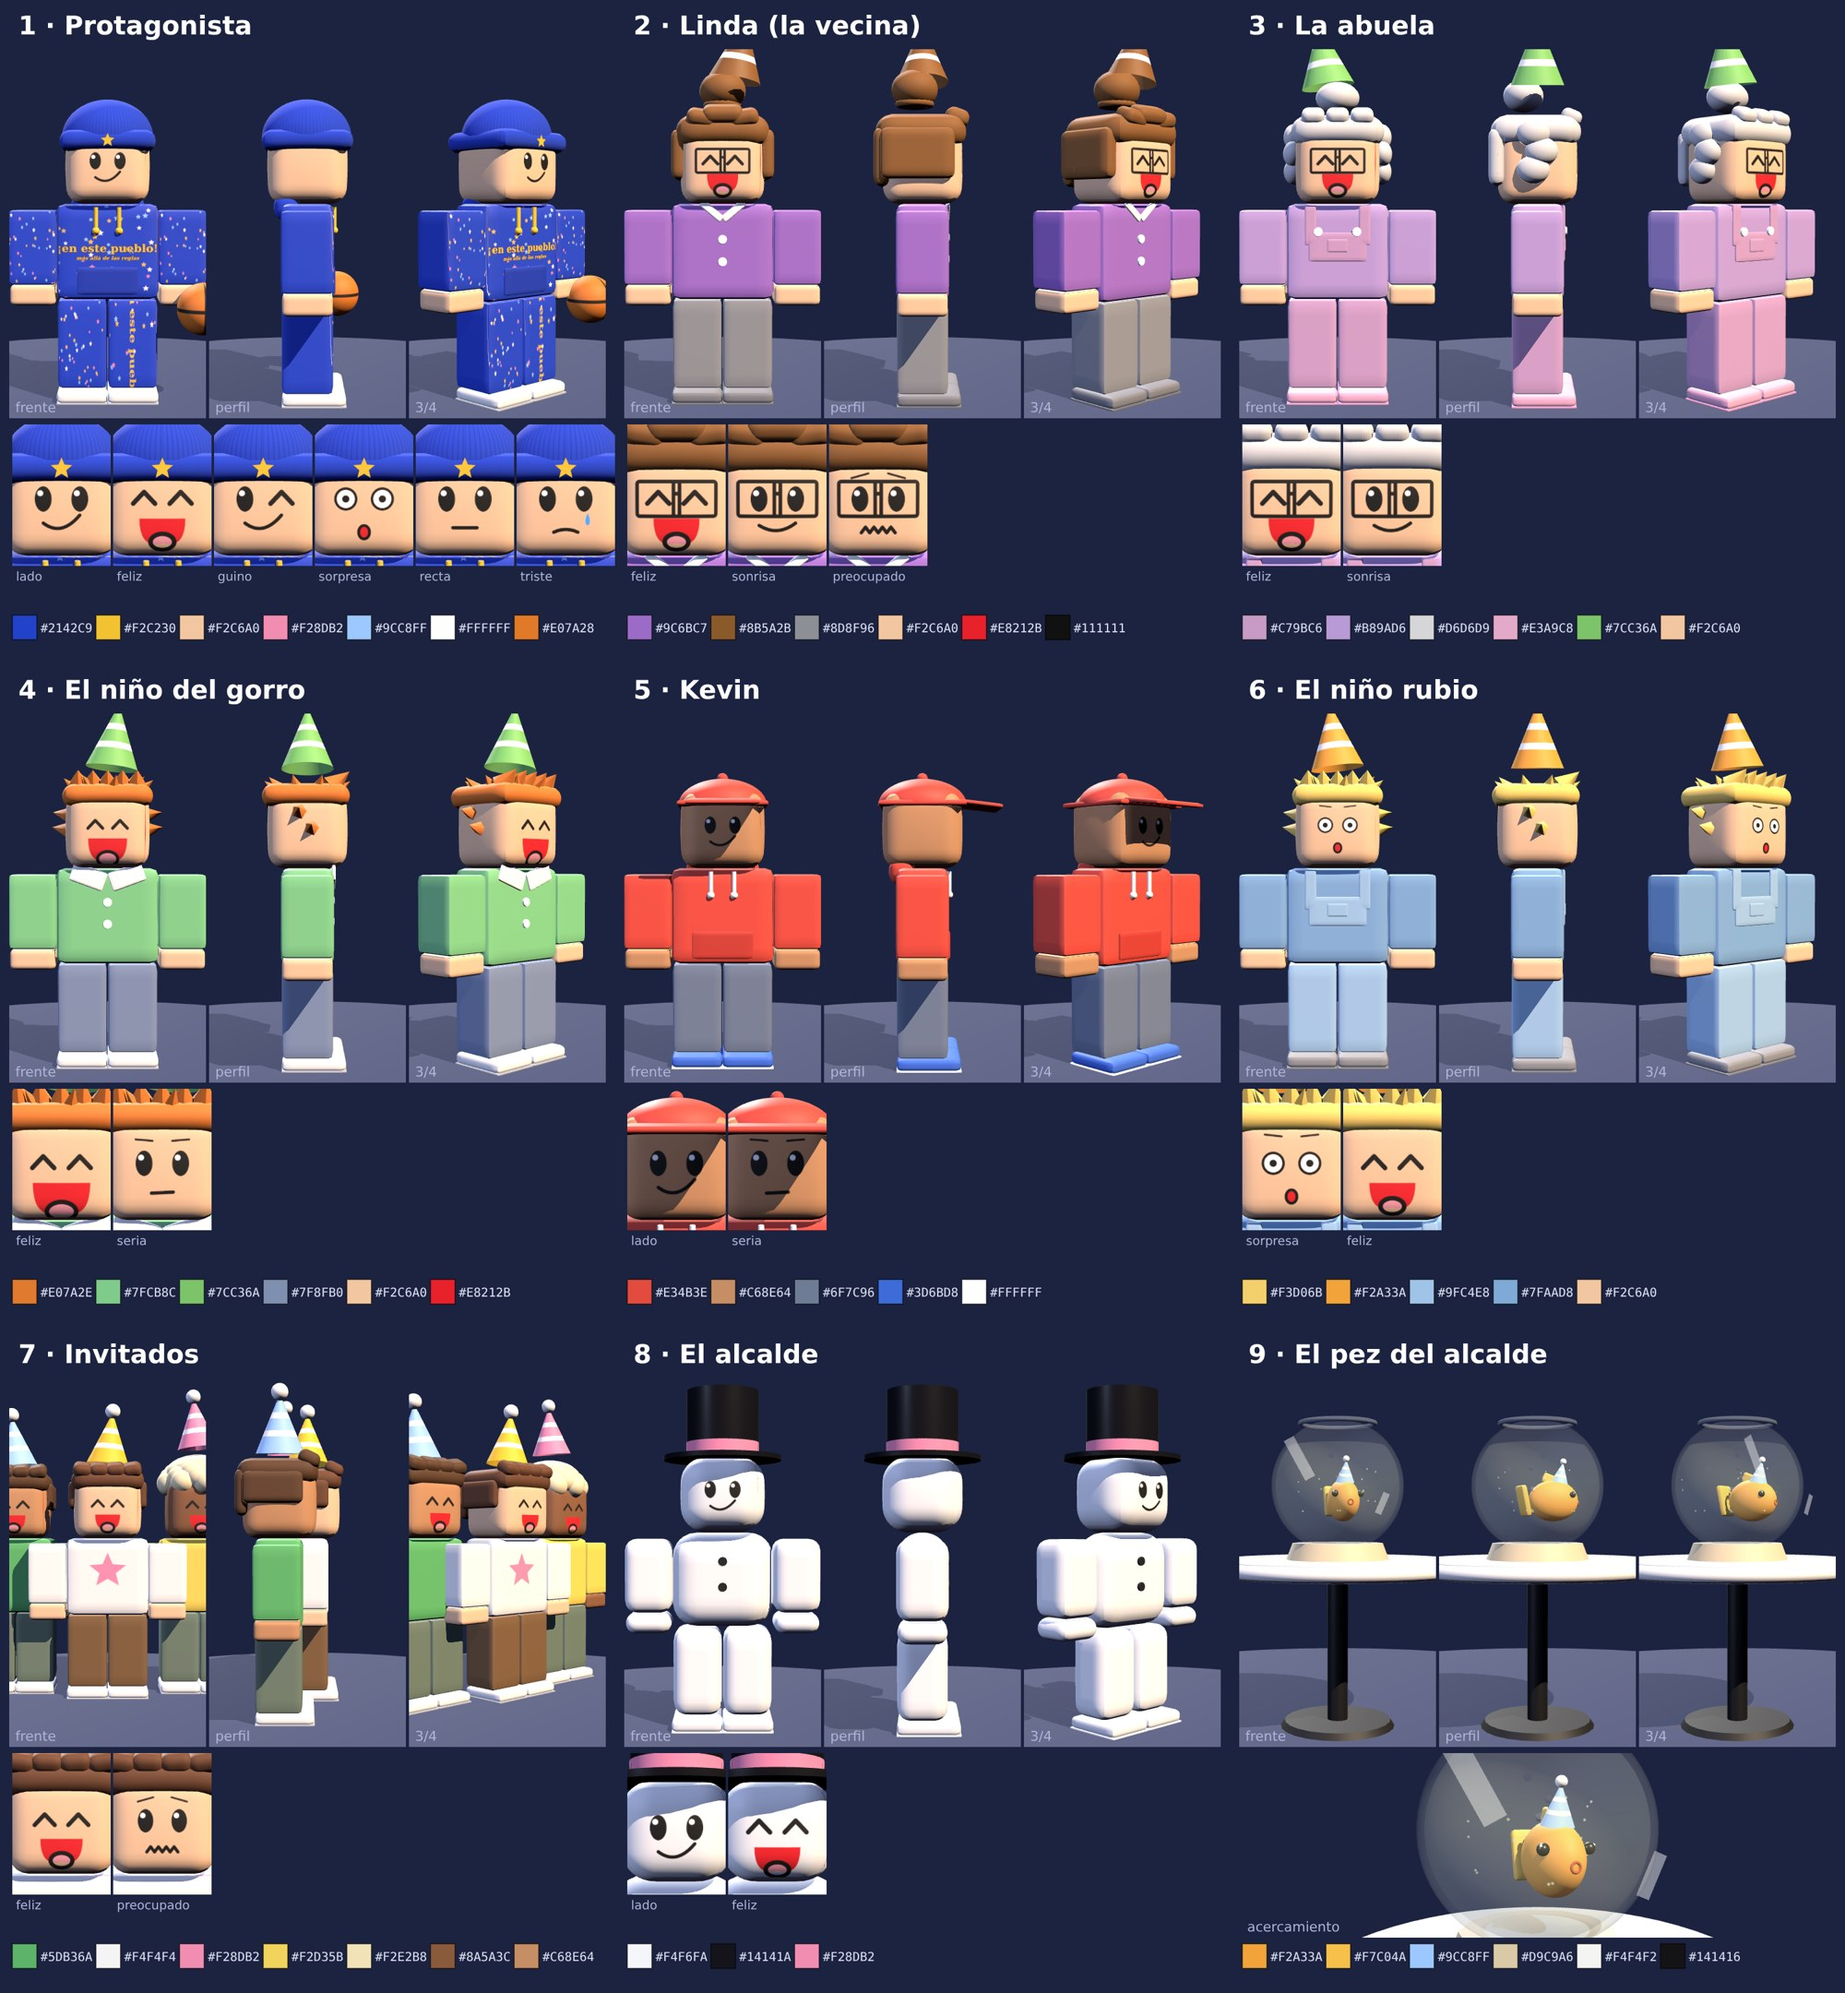
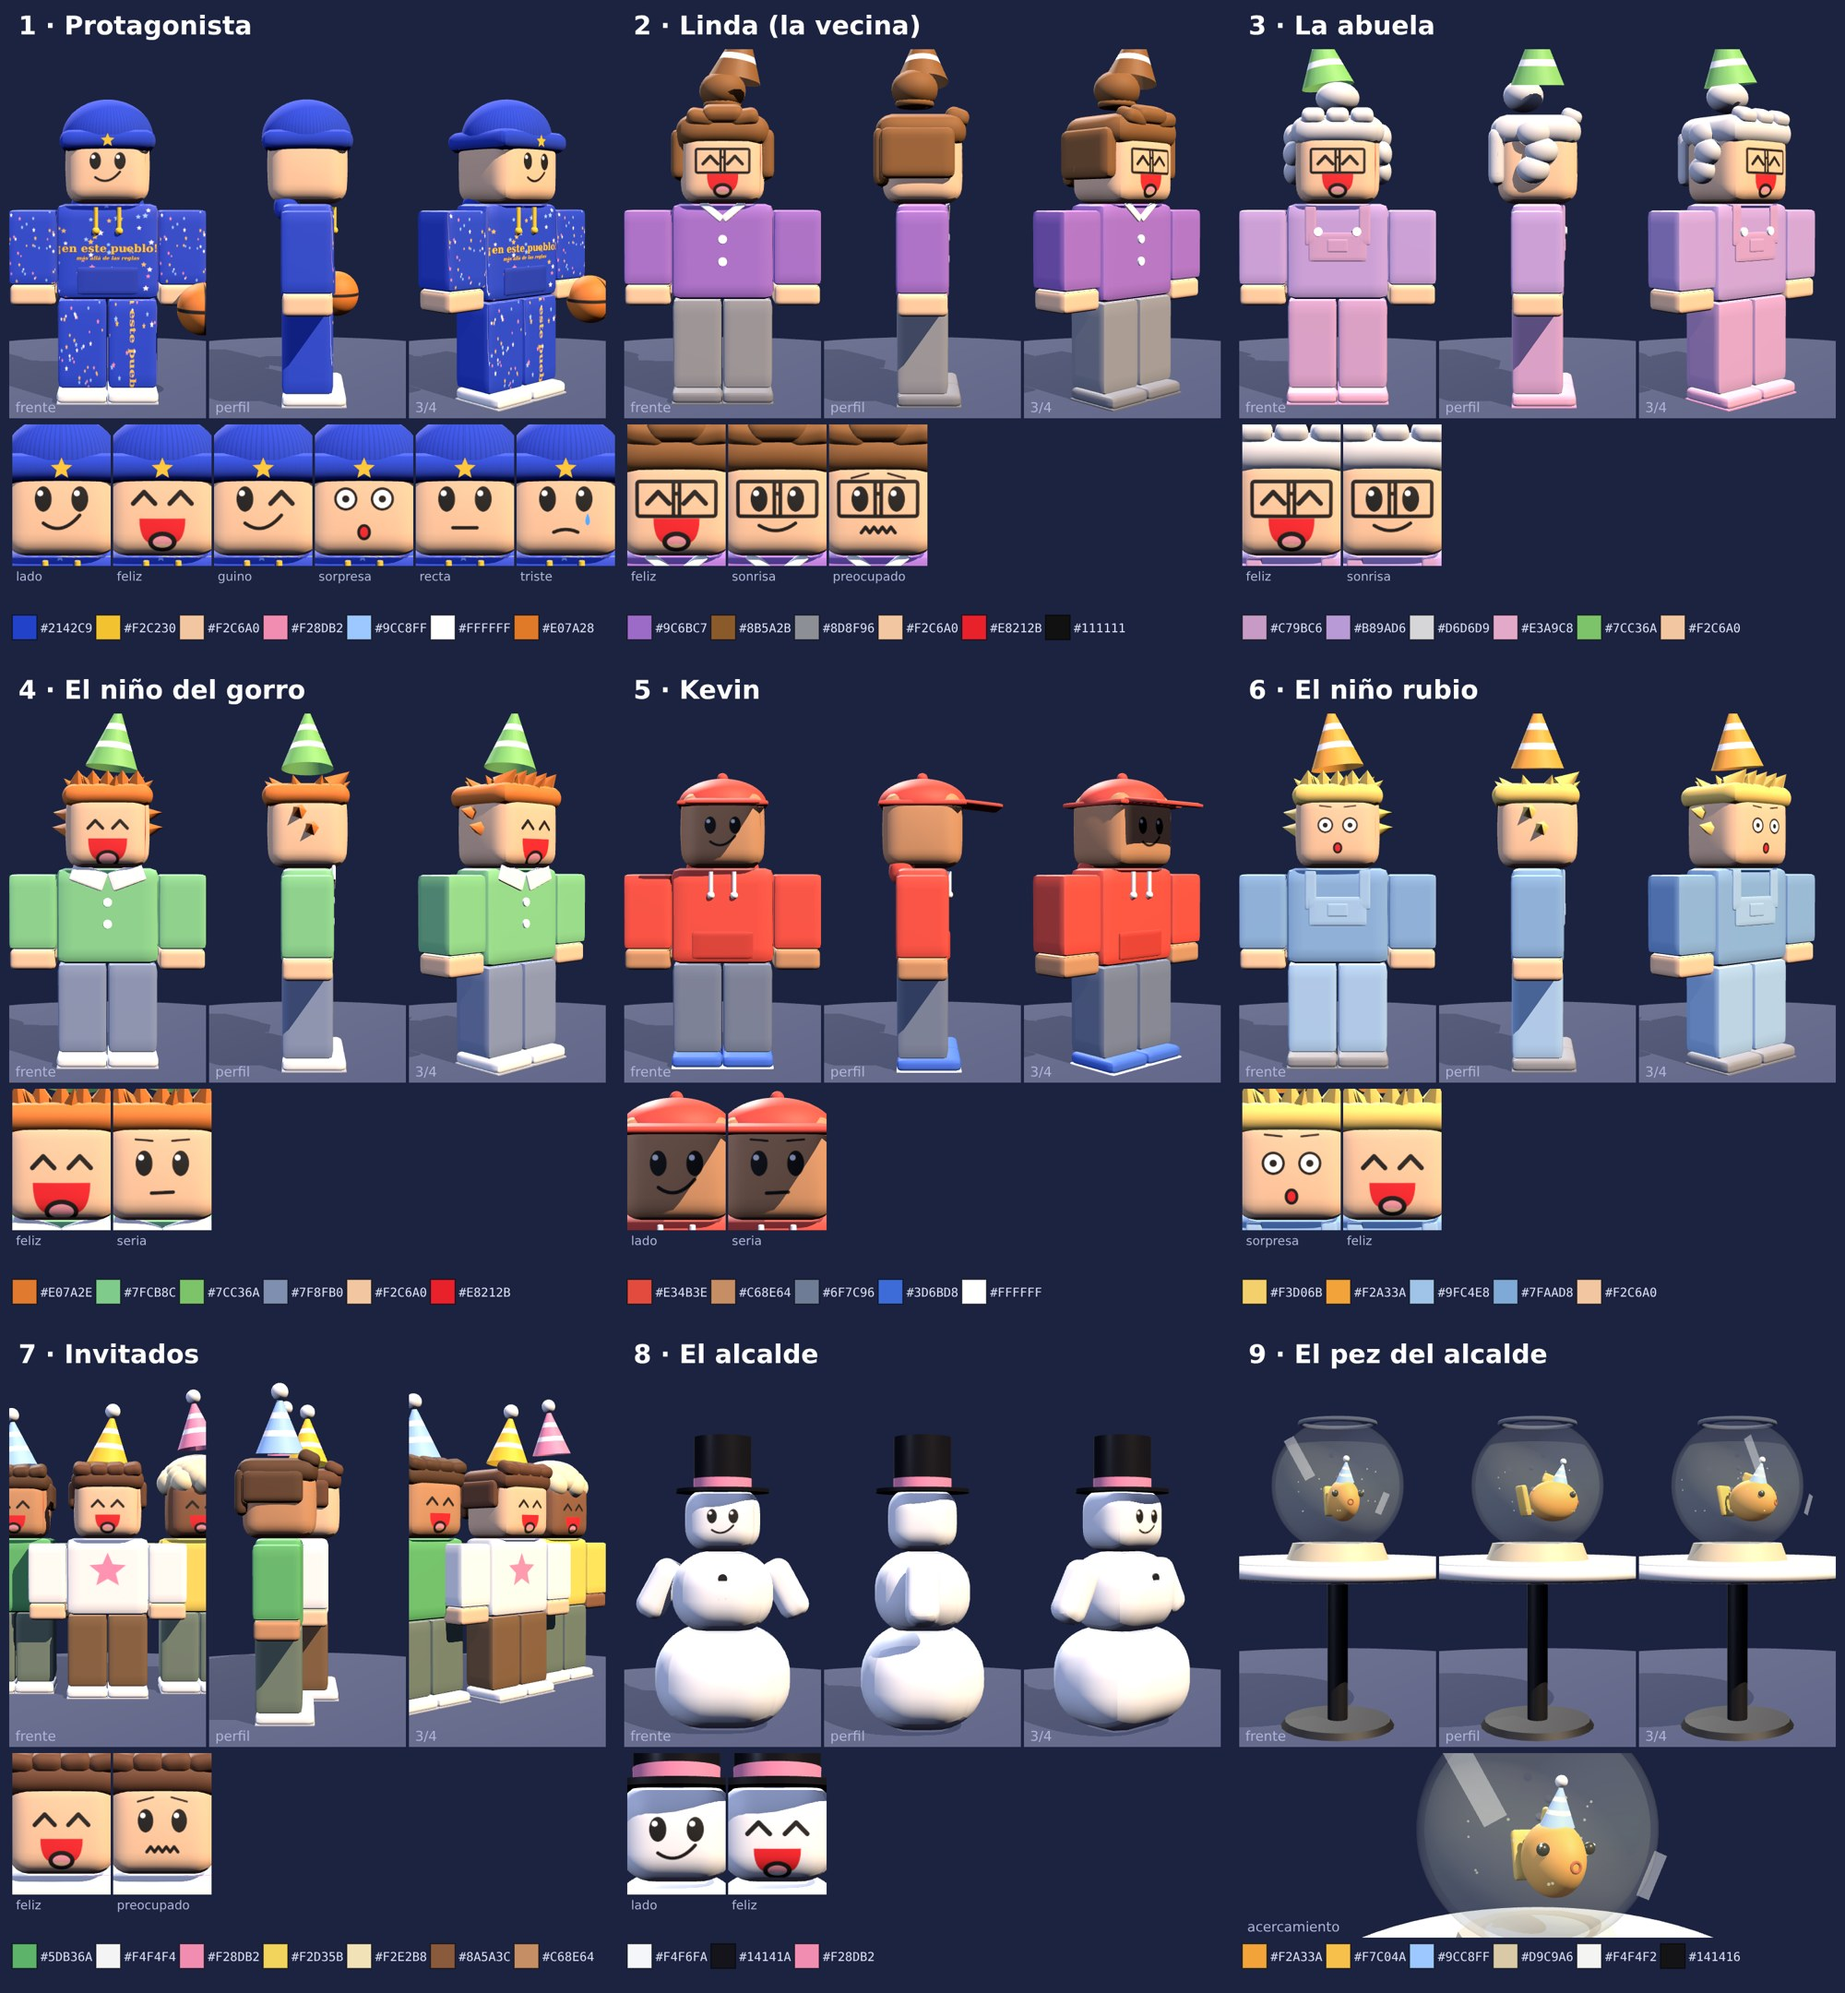
En este pueblo: el alcalde vuelve a ser muñeco de nieve
Claude-Session: https://claude.ai/code/session_01NcqyoPWYYrQVxTVUuo8w3d

Changed region(s): [[0.341, 0.6824, 0.651, 0.9616]]

diff --git a/videos/en-este-pueblo/assets/lib/personajes.js b/videos/en-este-pueblo/assets/lib/personajes.js
@@ -185,7 +185,13 @@
     invitado_verde: () => avatar({ piel: C.kevin, torso: '#5DB36A', pierna: '#6A7A6A', pelo: 'corto', colPelo: '#5A3A22', gorro: () => gorroFiesta(C.celeste), gorroY: .7, gorroRot: .1, expr: 'feliz' }),
     invitado_blanco: () => avatar({ torso: '#F4F4F4', matTorso: sm('#FFFFFF', { map: tela('#F4F4F4', (x, w, h) => estrellita(x, w / 2, h * .42, 120, C.rosa)) }), manga: '#F4F4F4', pierna: '#7A5A3A', pelo: 'corto', colPelo: '#6A4028', gorro: () => gorroFiesta(C.amarillo), gorroY: .7, gorroRot: -.1, expr: 'feliz' }),
     invitada_amarilla: () => avatar({ piel: '#8A5A3C', torso: '#F2D35B', pierna: '#6A7A6A', pelo: 'rizos', colPelo: '#F2E2B8', gorro: () => gorroFiesta('#F28DB2'), gorroY: 1.0, gorroRot: .1, expr: 'feliz' }),
-    alcalde: () => avatar({ piel: '#F4F6FA', torso: '#F4F6FA', manga: '#F4F6FA', pierna: '#F4F6FA', zapato: '#E6E9EF', suela: '#D0D4DC', redondo: true, gorro: sombreroCopa, gorroY: .47, expr: 'lado', ropa: (t, z) => botones(t, '#14141A', 0, [.3, -.1], z + .01) }),
+    alcalde: () => { const g = new THREE.Group(), s = new THREE.Group(); s.scale.setScalar(ESC); g.add(s); const b = sm('#F4F6FA', { roughness: .55 });
+      s.add(M(rbox(2.0, 1.6, 1.8, .7, .08), b, 0, .8, 0)); s.add(M(rbox(1.5, 1.3, 1.4, .55, .06), b, 0, 2.15, 0));
+      for (const sx of [-1, 1]) { const br = M(rbox(.5, 1.0, .5, .2), b, sx * 1.0, 2.2, 0); br.rotation.z = sx * .5; s.add(br); }
+      botones(s, '#14141A', 0, [2.4, 2.05], .72);
+      const cab = new THREE.Group(); cab.position.y = 3.3; s.add(cab); const cc = document.createElement('canvas'); cc.width = FW; cc.height = FH; const ct = new THREE.CanvasTexture(cc); ct.encoding = THREE.sRGBEncoding;
+      cab.add(M(rbox(1.1, 1.0, 1.0, .32, .05, 8), sm('#FFFFFF', { map: ct, roughness: .55 }))); const h = sombreroCopa(); h.position.y = .46; cab.add(h);
+      let ac = null; g.cara = (e) => { if (e === ac) return; ac = e; dibujaCara(cc.getContext('2d'), e, { piel: '#F4F6FA' }); ct.needsUpdate = true; }; g.cara('lado'); g.pose = () => {}; g.userData = { cabeza: cab }; return g; },
     pecera,
   };
   const PALETAS = {

diff --git a/videos/en-este-pueblo/tools/hoja.html b/videos/en-este-pueblo/tools/hoja.html
@@ -41,10 +41,10 @@ L.forEach(([k, nom, exprs], i) => {
     vista(crear(k), ang, cam, cx + 15 + j * 325, cy + 80, 320, 600); X.fillStyle = '#AEB6D8'; X.font = '22px "DejaVu Sans", sans-serif'; X.fillText(nv, cx + 25 + j * 325, cy + 670);
   });
   // cabezas con cada expresión (3D)
-  const cabY = (3.1 + .475 * 1.25) * E, n = Math.max(1, exprs.length), hw = Math.min(160, 960 / n);
+  const cabY = k === 'alcalde' ? 3.3 * E : (3.1 + .475 * 1.25) * E, n = Math.max(1, exprs.length), hw = Math.min(160, 960 / n);
   if (k === 'pecera') { const cam = new THREE.PerspectiveCamera(30, 960 / 300, .05, 20); cam.position.set(.15, 1.18, .95); cam.lookAt(0, 1.13, 0); vista(crear(k), .3, cam, cx + 20, cy + 690, 960, 300); X.fillStyle = '#AEB6D8'; X.font = '22px "DejaVu Sans", sans-serif'; X.fillText('acercamiento', cx + 28, cy + 980); }
   exprs.forEach((e, j) => { const o = crear(k); o.cara(e); const tgt = k === 'invitados' ? new THREE.Vector3(0, cabY, 0) : new THREE.Vector3(0, cabY + .03, 0);
-    const cam = new THREE.PerspectiveCamera(30, hw / 230, .05, 20); cam.position.set(tgt.x, tgt.y + .06, tgt.z + (k === 'invitados' ? 1.5 : 1.4)); cam.lookAt(tgt);
+    const cam = new THREE.PerspectiveCamera(30, hw / 230, .05, 20); cam.position.set(tgt.x, tgt.y + .06, tgt.z + (k === 'invitados' ? 1.5 : k === 'alcalde' ? 1.2 : 1.4)); cam.lookAt(tgt);
     if (k === 'invitados') o.children.forEach((a, q) => { if (q !== 1) a.visible = false; });
     vista(o, 0, cam, cx + 20 + j * (hw + 4), cy + 690, hw, 230); X.fillStyle = '#AEB6D8'; X.font = '20px "DejaVu Sans", sans-serif'; X.fillText(e, cx + 26 + j * (hw + 4), cy + 944); });
   // tirita de colores
